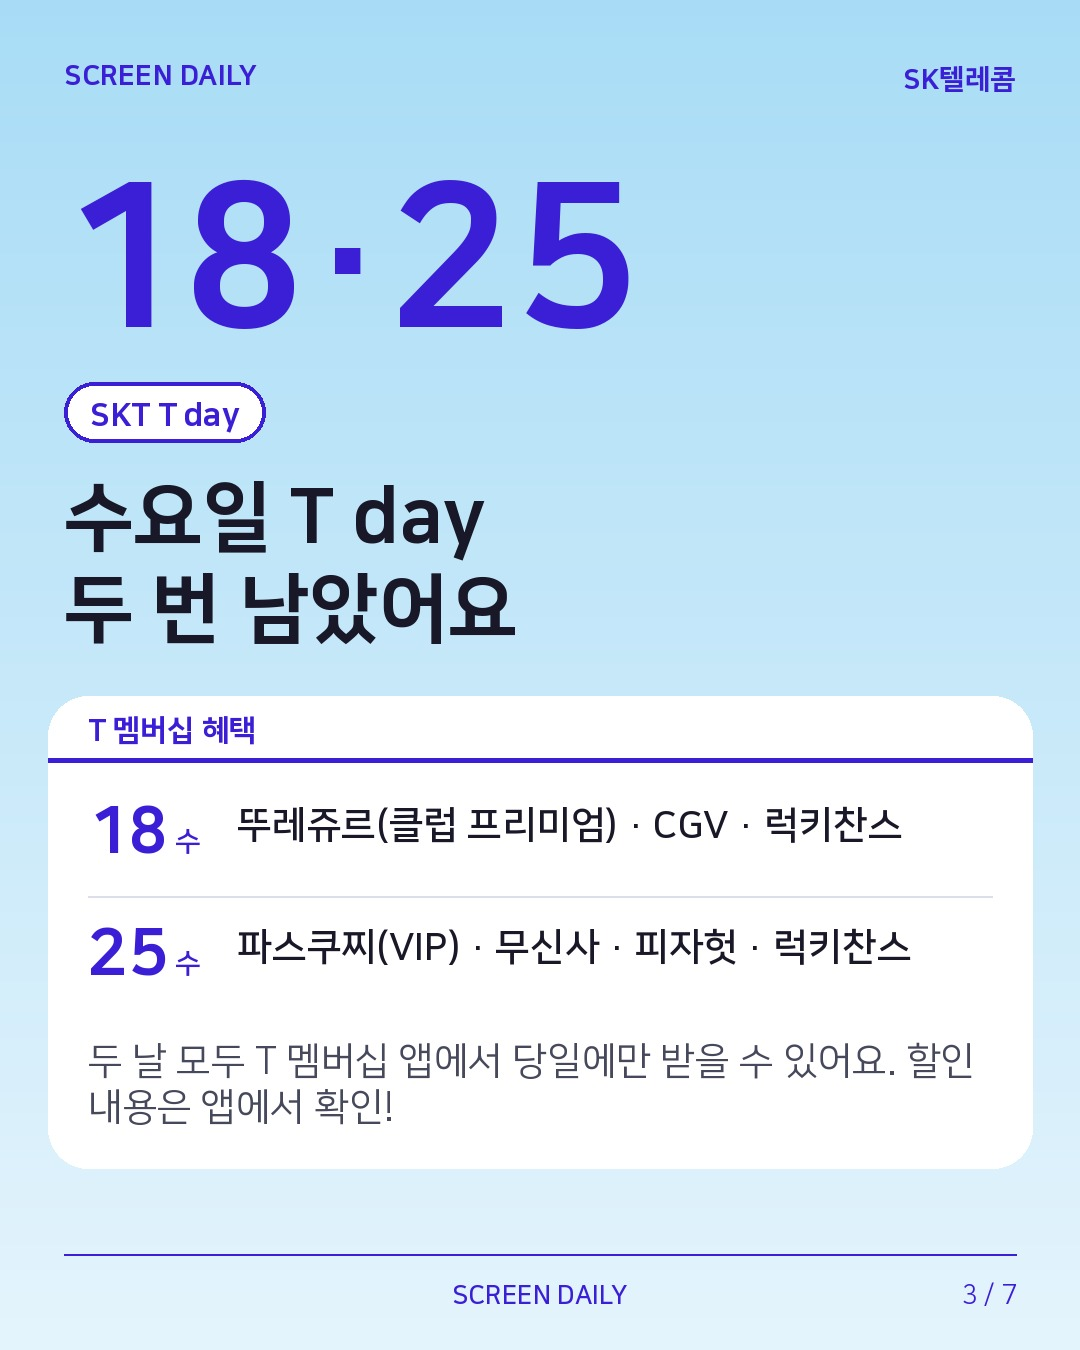
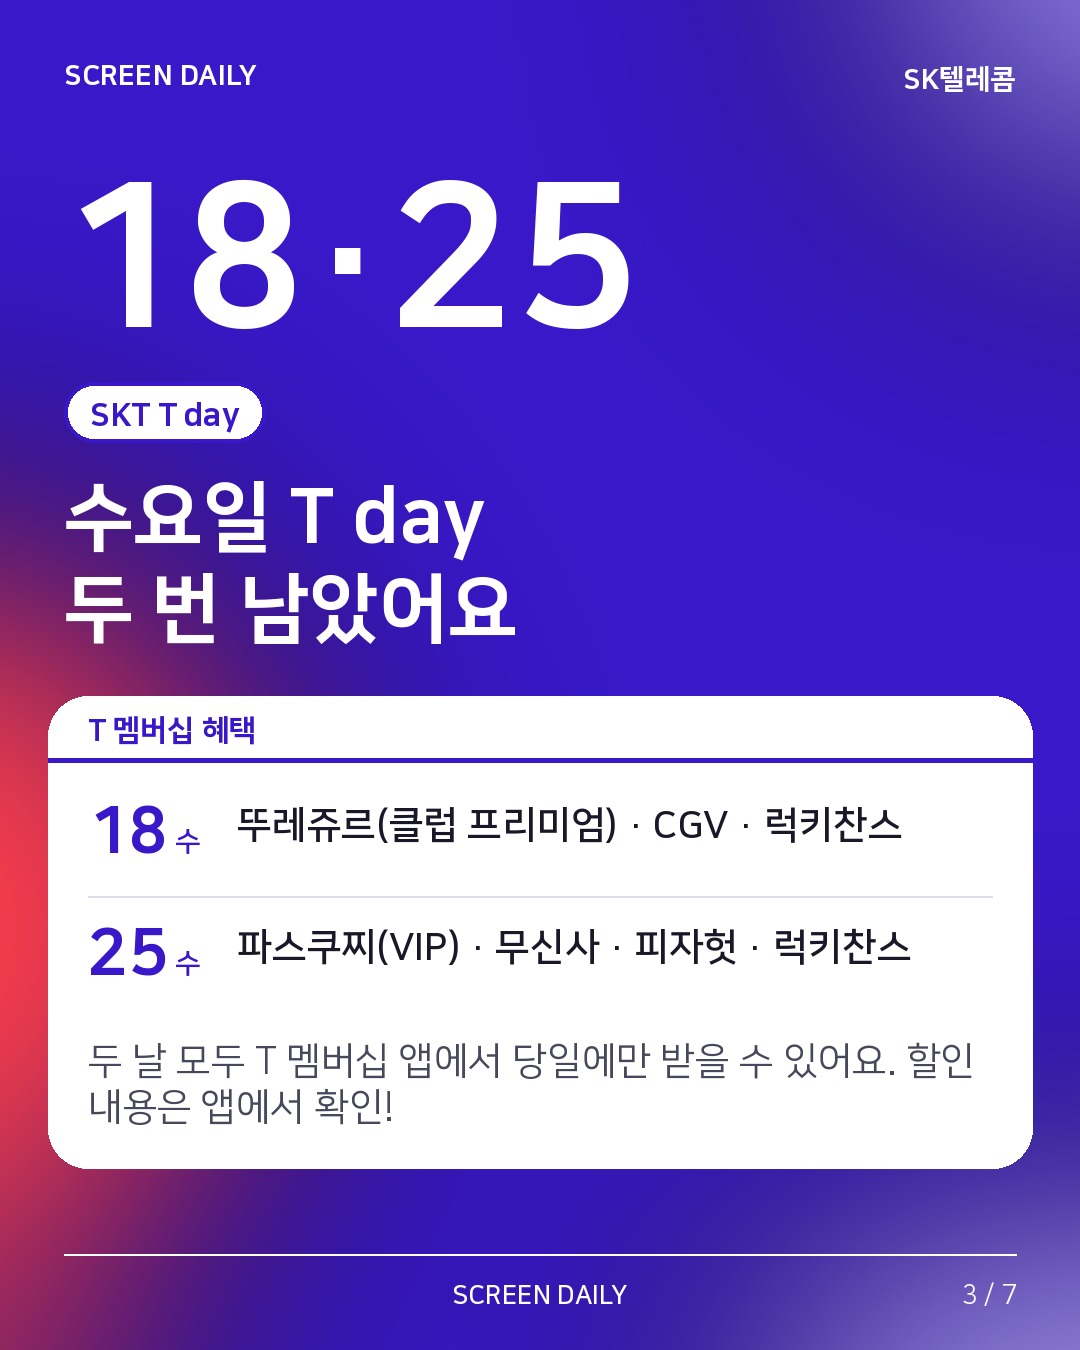
SKT 카드 배경: 진한 남보라 + 왼쪽 아래 코랄 빛(splash)
Claude-Session: https://claude.ai/code/session_013eU9upJ36tdqKzB4UjrVYH

diff --git a/screendaily/cards.py b/screendaily/cards.py
@@ -430,12 +430,26 @@ def render_panel_story(post: Post, item: Item, idx: int, total: int, config: dic
     ink = hex2rgb(bcfg.get("accent", "#3B1FD6"))
     top, bot = hex2rgb(bcfg.get("bg", "#A8DCF6")), hex2rgb(bcfg.get("bg2", "#E4F4FC"))
     dark, sub = (24, 24, 40), (70, 72, 92)
-    grad = Image.linear_gradient("L").resize((W, H))
-    canvas = Image.composite(Image.new("RGBA", (W, H), bot + (255,)), Image.new("RGBA", (W, H), top + (255,)), grad)
+    if bcfg.get("splash"):
+        # 진한 바탕 + 왼쪽 아래 강한 빛 + 오른쪽 위·아래 옅은 빛 (앱 시작 화면 느낌). 바탕 위 글씨는 흰색
+        sp = bcfg["splash"]
+        canvas = Image.new("RGBA", (W, H), hex2rgb(sp.get("base", "#3818C9")) + (255,))
+        glow = Image.new("RGBA", (W, H), (0, 0, 0, 0))
+        gd = ImageDraw.Draw(glow)
+        hot, soft = hex2rgb(sp.get("hot", "#FF3E4A")), hex2rgb(sp.get("soft", "#B3A6F2"))
+        gd.ellipse((-W * 0.75, H * 0.32, W * 0.3, H * 1.05), fill=hot + (255,))
+        gd.ellipse((W * 0.75, -H * 0.25, W * 1.5, H * 0.2), fill=soft + (200,))
+        gd.ellipse((W * 0.55, H * 0.85, W * 1.5, H * 1.4), fill=soft + (230,))
+        canvas.alpha_composite(glow.filter(ImageFilter.GaussianBlur(150)))
+        fg = dark = (255, 255, 255)
+    else:
+        grad = Image.linear_gradient("L").resize((W, H))
+        canvas = Image.composite(Image.new("RGBA", (W, H), bot + (255,)), Image.new("RGBA", (W, H), top + (255,)), grad)
+        fg = ink
     hd = ImageDraw.Draw(canvas)
     brand = config.get("brand", "SCREEN DAILY")
-    hd.text((M, 60), brand, font=font(EB, 28), fill=ink)
-    hd.text((W - M, 64), bcfg.get("name", item.brand), font=font(EB, 28), fill=ink, anchor="ra")
+    hd.text((M, 60), brand, font=font(EB, 28), fill=fg)
+    hd.text((W - M, 64), bcfg.get("name", item.brand), font=font(EB, 28), fill=fg, anchor="ra")
     layer = Image.new("RGBA", (W, H), (0, 0, 0, 0))  # 내용은 따로 그린 뒤 세로 가운데로 옮김
     d = ImageDraw.Draw(layer)
 
@@ -444,7 +458,7 @@ def render_panel_story(post: Post, item: Item, idx: int, total: int, config: dic
         yf = font(EB, 200)
         while _tw(yf, item.year) > W - M * 2 and yf.size > 120:
             yf = font(EB, yf.size - 10)
-        d.text((M - 6, y - 30), item.year, font=yf, fill=ink)
+        d.text((M - 6, y - 30), item.year, font=yf, fill=fg)
         y += int(yf.size * 1.0)
     if item.stage:  # 테두리만 있는 알약 라벨
         sf_ = font(EB, 32)
@@ -455,6 +469,7 @@ def render_panel_story(post: Post, item: Item, idx: int, total: int, config: dic
         y = box[3] + 34
     hf, hl = fit(item.title, EB, W - M * 2, 3, 76, 56)
     y = draw_lines(d, hl, hf, M, y, dark) + 36
+    dark = (24, 24, 40)  # 여기부터는 흰 패널 안 글씨
 
     rows, notes = [], []
     for ln in (item.desc or "").split("\n"):
@@ -505,9 +520,9 @@ def render_panel_story(post: Post, item: Item, idx: int, total: int, config: dic
     if item.bubble:
         b = bubble_layer(item.bubble, size=34, angle=2.5)
         paste_center(canvas, b, W - M - b.width // 2 + 10, panel[1] - 10)
-    d.line((M, H - 96, W - M, H - 96), fill=ink + (110,), width=2)
-    d.text((W / 2, H - 70), brand, font=font(B, 26), fill=ink, anchor="ma")
-    d.text((W - M, H - 70), f"{idx + 1} / {total}", font=font(R, 26), fill=ink, anchor="ra")
+    d.line((M, H - 96, W - M, H - 96), fill=fg + (110,), width=2)
+    d.text((W / 2, H - 70), brand, font=font(B, 26), fill=fg, anchor="ma")
+    d.text((W - M, H - 70), f"{idx + 1} / {total}", font=font(R, 26), fill=fg, anchor="ra")
     return canvas.convert("RGB")
 
 
